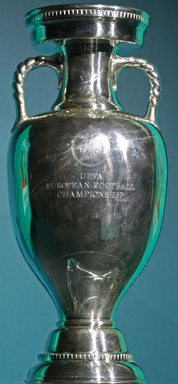
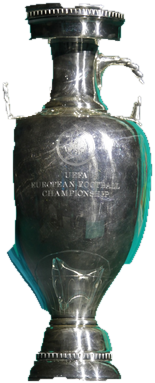
Fix competition and award thumbnails

diff --git a/app.js b/app.js
@@ -11,7 +11,7 @@ let _gid=0;
 function shade(hex,amt){const n=parseInt(hex.slice(1),16);let r=n>>16,g=(n>>8)&255,b=n&255;const t=amt<0?0:255,p=Math.abs(amt);r=Math.round((t-r)*p+r);g=Math.round((t-g)*p+g);b=Math.round((t-b)*p+b);return"#"+((1<<24)+(r<<16)+(g<<8)+b).toString(16).slice(1)}
 const TROPHY_ART={globe:"world-cup",goblet:"champions-league",chalice:"euro",tall:"afcon",medal:"club-world-cup",plate:"asian-cup",ball:"ballon-dor",best:"the-best",kopa:"kopa",glove:"yashin",boot:"golden-boot"};
 function trophy(kind,col,stripes){
-  if(TROPHY_ART[kind])return '<img class="trophy" src="assets/trophies/'+TROPHY_ART[kind]+'.png?v=competition-cutouts-20261104" alt="" aria-hidden="true">';
+  if(TROPHY_ART[kind])return '<img class="trophy" src="assets/trophies/'+TROPHY_ART[kind]+'.png?v=award-cup-fix-20261104" alt="" aria-hidden="true">';
   const id="m"+(++_gid),M="url(#"+id+")",S="url(#"+id+"s)";
   const defs='<defs><linearGradient id="'+id+'" x1="0" x2="1" y1="0" y2="0"><stop offset="0" stop-color="'+shade(col,-.35)+'"/><stop offset=".35" stop-color="'+shade(col,.45)+'"/><stop offset=".55" stop-color="'+col+'"/><stop offset="1" stop-color="'+shade(col,-.45)+'"/></linearGradient><radialGradient id="'+id+'s" cx=".35" cy=".3" r=".8"><stop offset="0" stop-color="'+shade(col,.6)+'"/><stop offset=".5" stop-color="'+col+'"/><stop offset="1" stop-color="'+shade(col,-.5)+'"/></radialGradient></defs>';
   const base='<path d="M24 50h16l2 4H22z" fill="'+M+'"/><rect x="18" y="54" width="28" height="7" rx="2" fill="#2a2018"/><rect x="18" y="54" width="28" height="2" fill="#ffffff" opacity=".12"/>';
@@ -31,7 +31,7 @@ function trophy(kind,col,stripes){
   return '<svg class="trophy" viewBox="0 0 64 64" aria-hidden="true">'+defs+(k[kind]||k.cup)+'</svg>';
 }
 const COMP_BADGES={copa:"copa-america",wwc:"womens-world-cup",pl:"premier-league",liga:"la-liga",seriea:"serie-a",bundes:"bundesliga",ligue1:"ligue-1",portugal:"primeira-liga",ered:"eredivisie",brasileirao:"brasileirao",mls:"mls.svg",spl:"saudi-pro-league",j1:"j1-league"};
-function compArtwork(c){const badge=COMP_BADGES[c.id];return badge?'<img class="trophy comp-logo" src="assets/competition-badges/'+(badge.endsWith(".svg")?badge:badge+'.png')+'?v=competition-cutouts-20261104'+'" alt="" aria-hidden="true">':trophy(c.icon,c.col,c.stripes)}
+function compArtwork(c){const badge=COMP_BADGES[c.id];return badge?'<img class="trophy comp-logo" src="assets/competition-badges/'+(badge.endsWith(".svg")?badge:badge+'.png')+'?v=award-cup-fix-20261104'+'" alt="" aria-hidden="true">':trophy(c.icon,c.col,c.stripes)}
 const AWARD_HOLDER_PHOTOS={
  bdo:{"Lionel Messi":"messi-ballon-dor.jpg"},
  bdof:{"Aitana Bonmatí":"aitana-bonmati.png","Alexia Putellas":"alexia-putellas.png"},
@@ -380,7 +380,7 @@ inits.standings=function(){
     const sets=L.groups&&Object.keys(L.groups).length?Object.entries(L.groups):[["",L.rows]];
     $("stOut").innerHTML=sets.map(([g,rows])=>(g?'<p class="sub">'+esc(g)+'</p>':'')+'<div class="stwrap"><table class="sttable">'+head+body(rows,L)+'</table></div>').join("");
   }
-  const fl=l=>{const L=S.leagues[l],c=COMPS.find(x=>x.name===l),badge=c&&COMP_BADGES[c.id];if(badge)return '<img class="league-badge-mini" src="assets/competition-badges/'+(badge.endsWith(".svg")?badge:badge+'.png')+'?v=competition-cutouts-20261104'+'" alt="" aria-hidden="true"> ';if(L.flag)return flag(L.flag)+" ";return c&&c.flag?flag(c.flag)+" ":""};
+  const fl=l=>{const L=S.leagues[l],c=COMPS.find(x=>x.name===l),badge=c&&COMP_BADGES[c.id];if(badge)return '<img class="league-badge-mini" src="assets/competition-badges/'+(badge.endsWith(".svg")?badge:badge+'.png')+'?v=award-cup-fix-20261104'+'" alt="" aria-hidden="true"> ';if(L.flag)return flag(L.flag)+" ";return c&&c.flag?flag(c.flag)+" ":""};
   const EU=names.filter(l=>!S.leagues[l].flag),WO=names.filter(l=>S.leagues[l].flag);
   tabs.innerHTML='<span class="tabg">Europe</span>'+EU.map(l=>'<button data-l="'+esc(l)+'">'+fl(l)+esc(l)+'</button>').join("")+'<span class="tabg">Rest of the world</span>'+WO.map(l=>'<button data-l="'+esc(l)+'">'+fl(l)+esc(l)+'</button>').join("");
   tabs.addEventListener("click",e=>{const b=e.target.closest("button");if(b)show(b.dataset.l)});
@@ -594,7 +594,8 @@ inits.transfers=function(){
 /* ---------- Awards ---------- */
 inits.awards=function(){
   const box=$("awardList");
-  box.innerHTML=AWARDS.map(a=>'<button class="aw" data-a="'+a.id+'" aria-pressed="false" style="--cc:'+a.col+'">'+trophy(a.icon,a.col)+'<b>'+a.name+'</b><small>Since '+a.since+'</small></button>').join("");
+  const thumbs={bdo:["Lionel Messi","ballon-dor.jpg"],bdof:["Aitana Bonmatí","ballon-dor-feminin.png"]};
+  box.innerHTML=AWARDS.map(a=>{const t=thumbs[a.id],art=t?'<img class="award-thumb" src="assets/award-thumbnails/'+t[1]+'?v=award-thumbs-20261104" alt="'+esc(t[0])+'">':trophy(a.icon,a.col);return '<button class="aw" data-a="'+a.id+'" aria-pressed="false" style="--cc:'+a.col+'">'+art+'<b>'+a.name+'</b><small>Since '+a.since+'</small></button>'}).join("");
   box.addEventListener("click",e=>{const b=e.target.closest(".aw");if(!b)return;show(b.dataset.a);if(innerWidth<820)$("awardDetail").scrollIntoView({behavior:"smooth"})});
   function show(id){
     box.querySelectorAll(".aw").forEach(b=>b.setAttribute("aria-pressed",b.dataset.a===id));

diff --git a/style.css b/style.css
@@ -230,7 +230,8 @@ dialog::backdrop{background:#000b;backdrop-filter:blur(3px)}
 .agrid{display:grid;grid-template-columns:repeat(auto-fill,minmax(170px,1fr));gap:12px;margin-bottom:22px}
 .aw{background:var(--panel);border-radius:16px;padding:16px;text-align:center;border:2px solid transparent;display:flex;flex-direction:column;align-items:center;gap:6px;color:var(--line)}
 .aw[aria-pressed="true"]{border-color:var(--cc);background:var(--panel2);color:var(--line);font-weight:400}
-.aw .trophy{width:72px;height:72px}
+.aw .trophy,.aw .award-thumb{width:72px;height:72px}
+.aw .award-thumb{display:block;object-fit:cover;object-position:center 28%;border-radius:50%;border:2px solid var(--cc);background:#101516}
 .aw b{font:700 22px/1.1 "Barlow Condensed",sans-serif}
 .aw small{color:var(--mute)}
 .adetail{display:grid;grid-template-columns:280px minmax(0,1fr);gap:18px}
@@ -295,7 +296,7 @@ footer a{color:var(--mute)}
 .ltable tr.champ td:first-child{color:var(--gold)}
 .ltable .ct{font-size:11px;background:var(--gold);color:#241a00;border-radius:4px;padding:1px 6px;text-transform:uppercase;letter-spacing:.05em}
 .sig svg{max-width:170px}
-.comp .trophy{width:80px;height:80px}
+.comp .trophy{width:92px;height:92px}
 @media(max-width:600px){.match .tm span{white-space:normal;overflow:visible;line-height:1.15}.match .tm .flag{width:22px;height:16px}.match .sc{font-size:17px}}
 .roadbox{margin-top:18px;background:#ffffff08;border:1px solid var(--rule);border-radius:14px;padding:4px 14px 14px}
 .years{display:flex;flex-wrap:wrap;align-items:center;gap:6px;margin-top:10px}

diff --git a/index.html b/index.html
@@ -8,7 +8,7 @@
 <link rel="preconnect" href="https://fonts.googleapis.com">
 <link rel="preconnect" href="https://fonts.gstatic.com" crossorigin>
 <link href="https://fonts.googleapis.com/css2?family=Barlow+Condensed:wght@600;700&family=Barlow:wght@400;500;600&display=swap" rel="stylesheet">
-<link rel="stylesheet" href="style.css?v=flagbars-20261104">
+<link rel="stylesheet" href="style.css?v=award-thumbnails-flagbars-20261104">
 <script src="https://cdnjs.cloudflare.com/ajax/libs/d3/7.9.0/d3.min.js" defer></script>
 <script src="https://cdn.jsdelivr.net/npm/topojson-client@3/dist/topojson-client.min.js" defer></script>
 <script src="data.js?v=club-logos-20261104" defer></script>
@@ -16,7 +16,7 @@
 <script src="standings.js" defer></script>
 <script src="extra.js" defer></script>
 <script src="profiles.js" defer></script>
-<script src="app.js?v=flagbars-20261104" defer></script>
+<script src="app.js?v=award-thumbnails-flagbars-20261104" defer></script>
 </head>
 <body>
 <nav class="top" aria-label="Pages">
